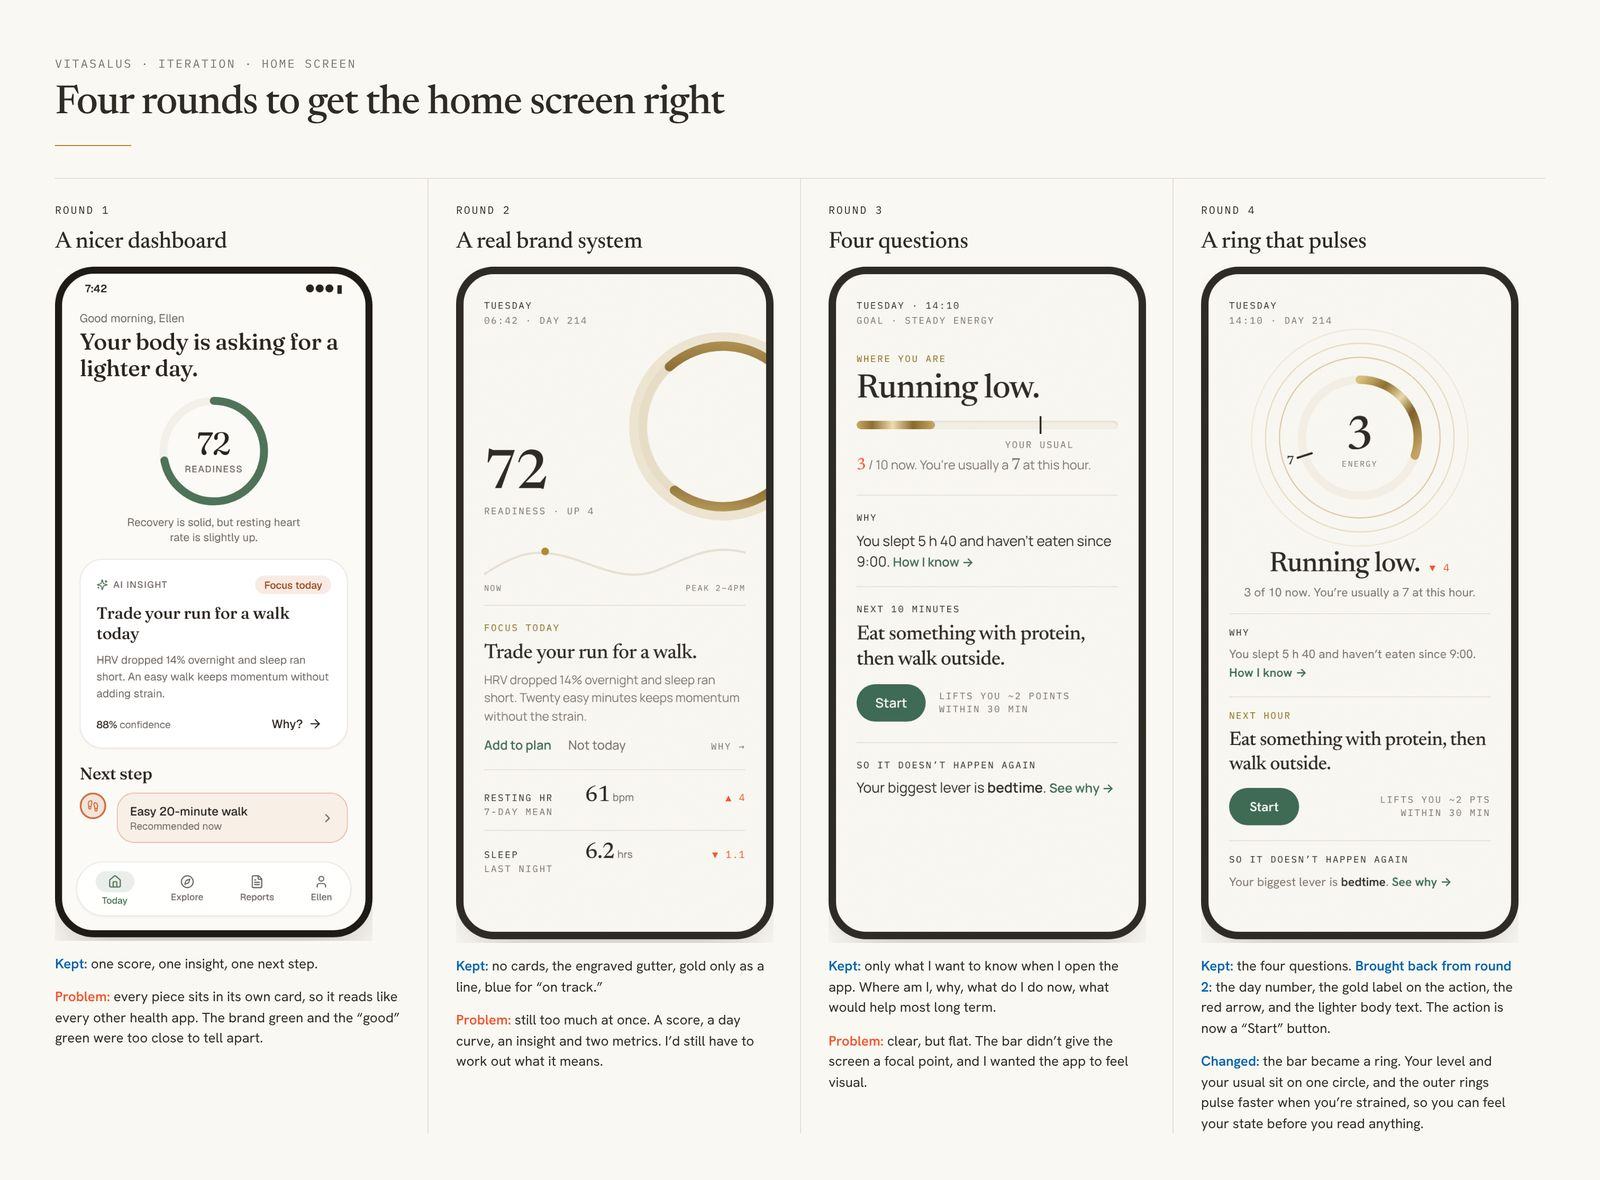
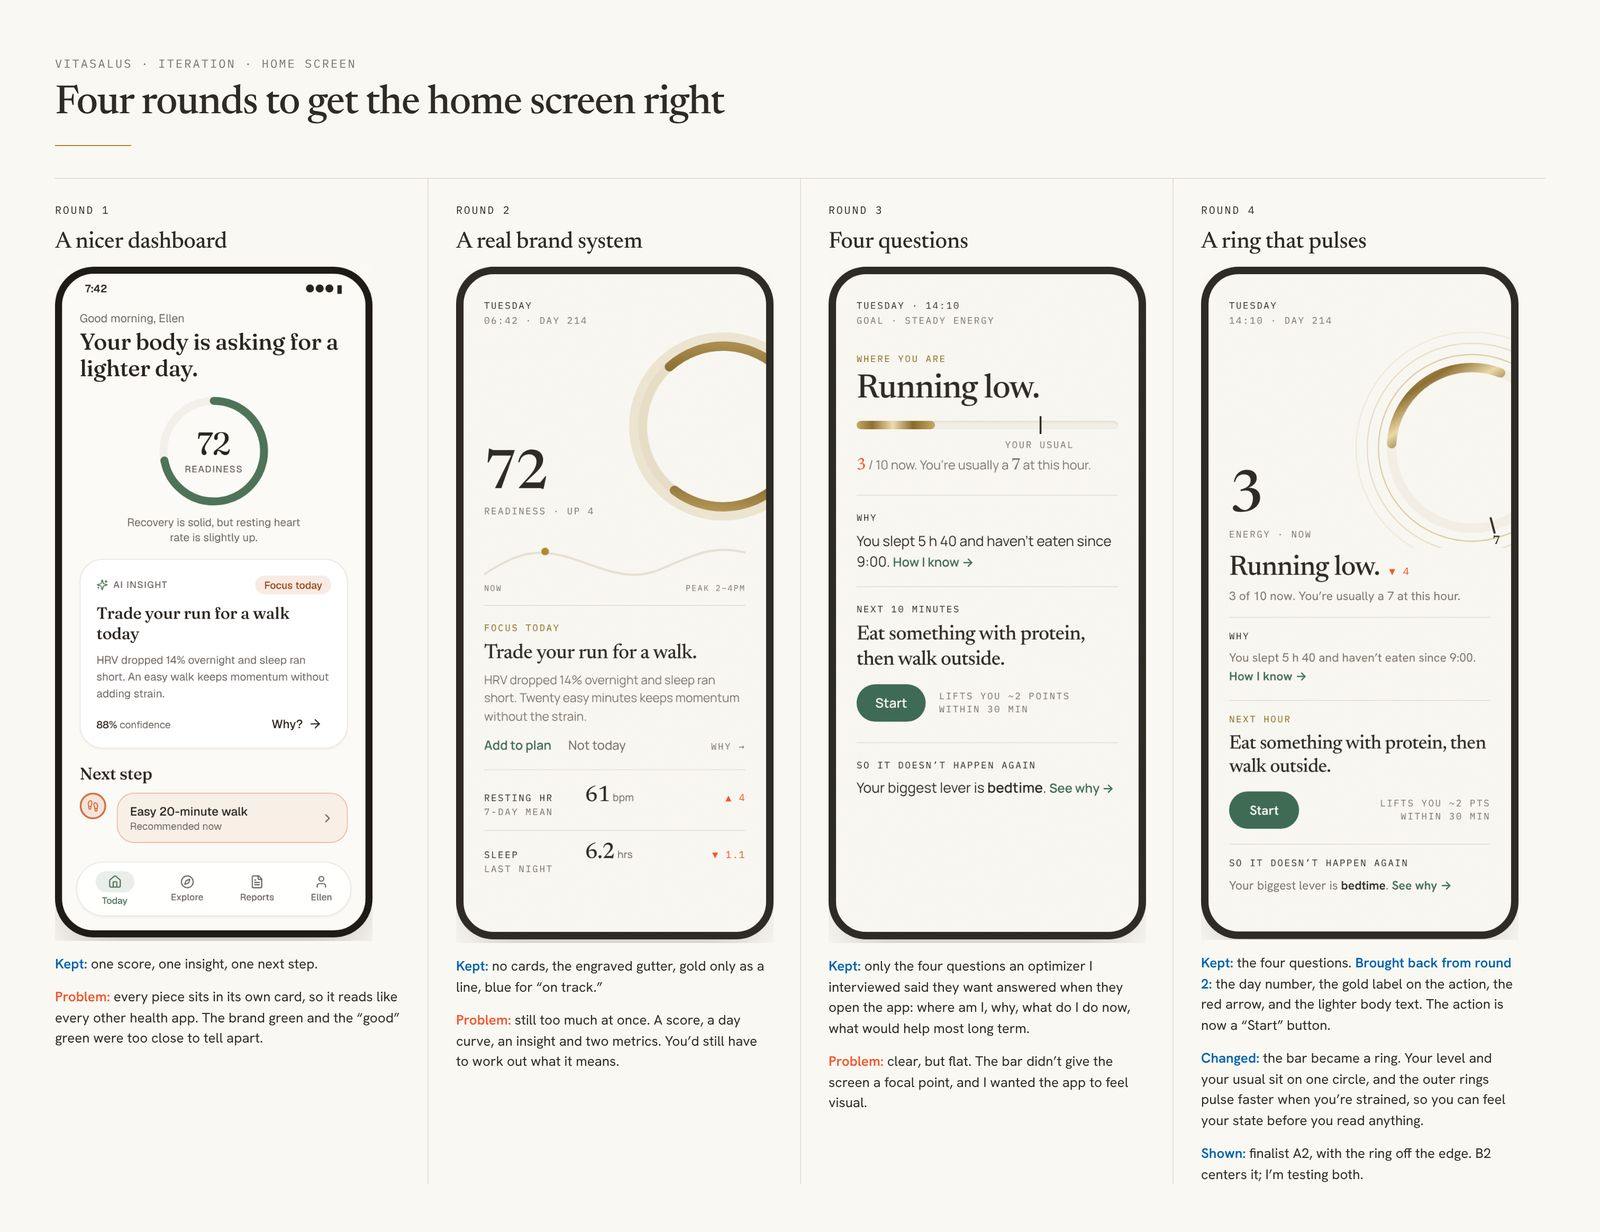
VitaSalus: update the home screen iteration board and match the round 3 copy

diff --git a/index.html b/index.html
@@ -3800,7 +3800,7 @@
 
                     <figure class="vs-figure">
                         <button type="button" class="vs-zoom" aria-label="Enlarge the home screen across four rounds">
-                            <img src="vitasalus/iteration-home.jpg" width="1600" height="1180" alt="The home screen across four rounds. Round 1, a nicer dashboard with a readiness ring and cards. Round 2, a real brand system with a gold arc running off the edge. Round 3, four questions with an energy bar. Round 4, a pulsing ring with Running low and a Start button." loading="lazy" decoding="async">
+                            <img src="vitasalus/iteration-home.jpg" width="1600" height="1232" alt="The home screen across four rounds. Round 1, a nicer dashboard with a readiness ring and cards. Round 2, a real brand system with a gold arc running off the edge. Round 3, four questions with an energy bar. Round 4, a pulsing ring running off the right edge (finalist A2) with Running low and a Start button." loading="lazy" decoding="async">
                         </button>
                         <figcaption>The home screen across the four rounds. Select any image to enlarge it.</figcaption>
                     </figure>
@@ -3821,7 +3821,7 @@
                         <li>
                             <p class="vs-label">Round 3</p>
                             <h3>Four questions</h3>
-                            <p>I asked what I actually want when I open a health app, and rebuilt the home screen to answer only that: <b>Where am I with my goal? Why? What do I do in the next hour? What change would help most so this doesn’t happen again?</b></p>
+                            <p>An optimizer I interviewed named four questions they want answered when they open the app, so I rebuilt the home screen to answer only those: <b>Where am I with my goal? Why? What do I do in the next hour? What change would help most so this doesn’t happen again?</b></p>
                             <p><span class="vs-problem">Didn’t:</span> I cut too much. The screen was clear but flat, and losing the “why” also lost the trust signals (device disagreement and confidence). The goal chart’s thick bars looked heavy next to the thin lines of the rest of the system.</p>
                         </li>
                         <li>
